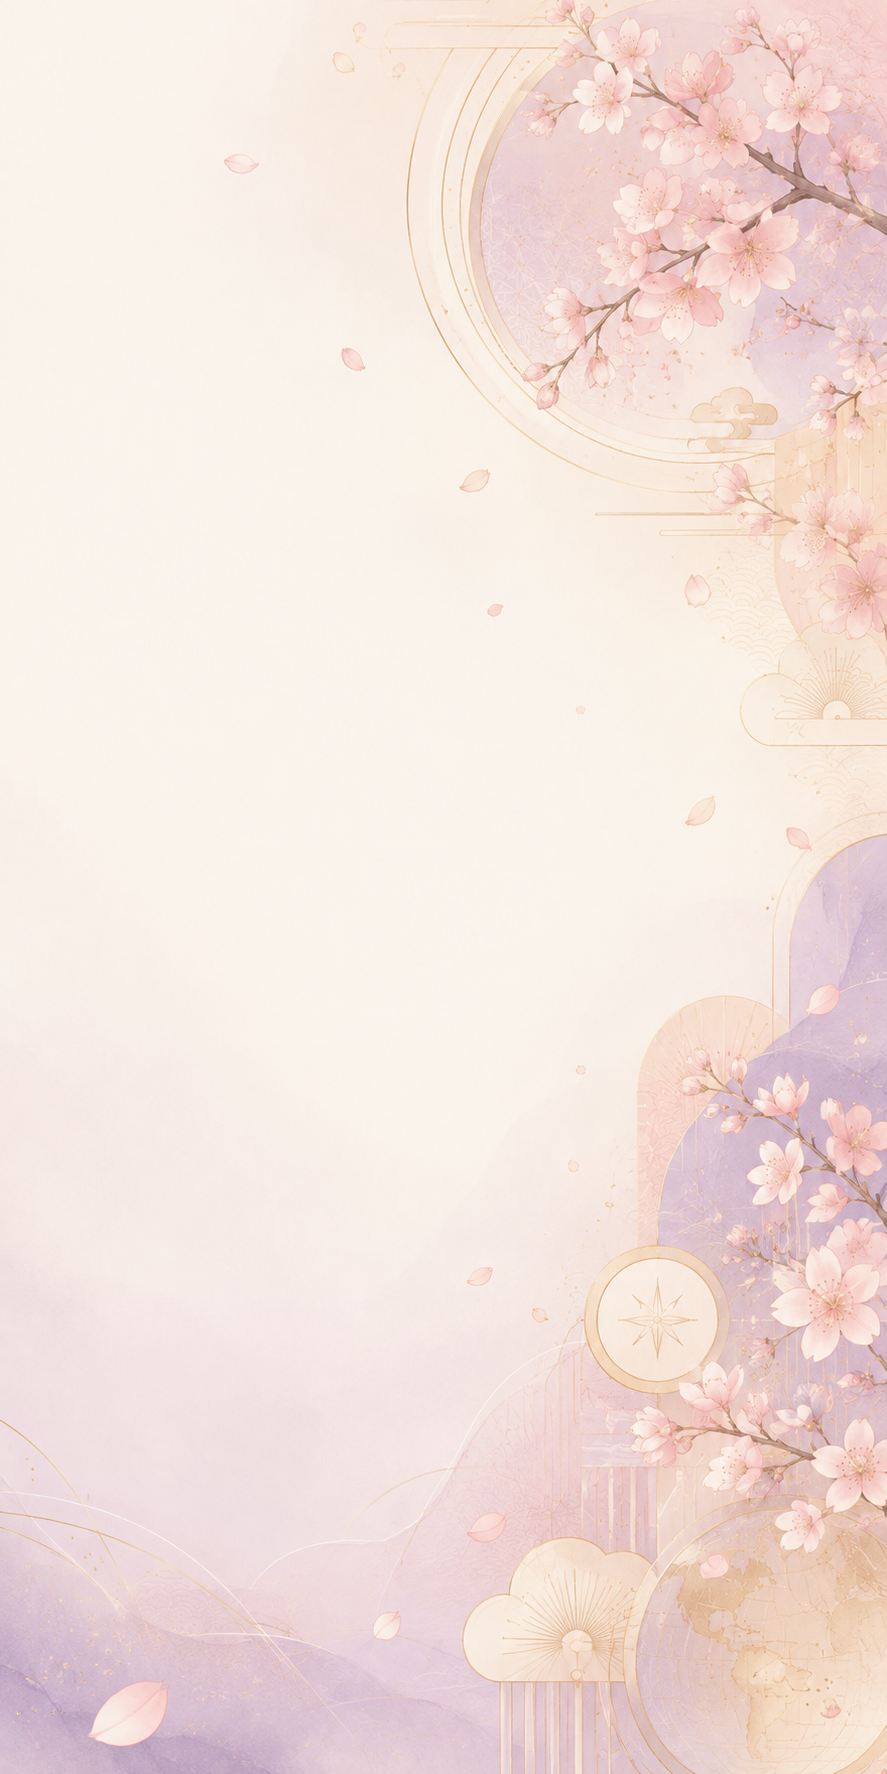
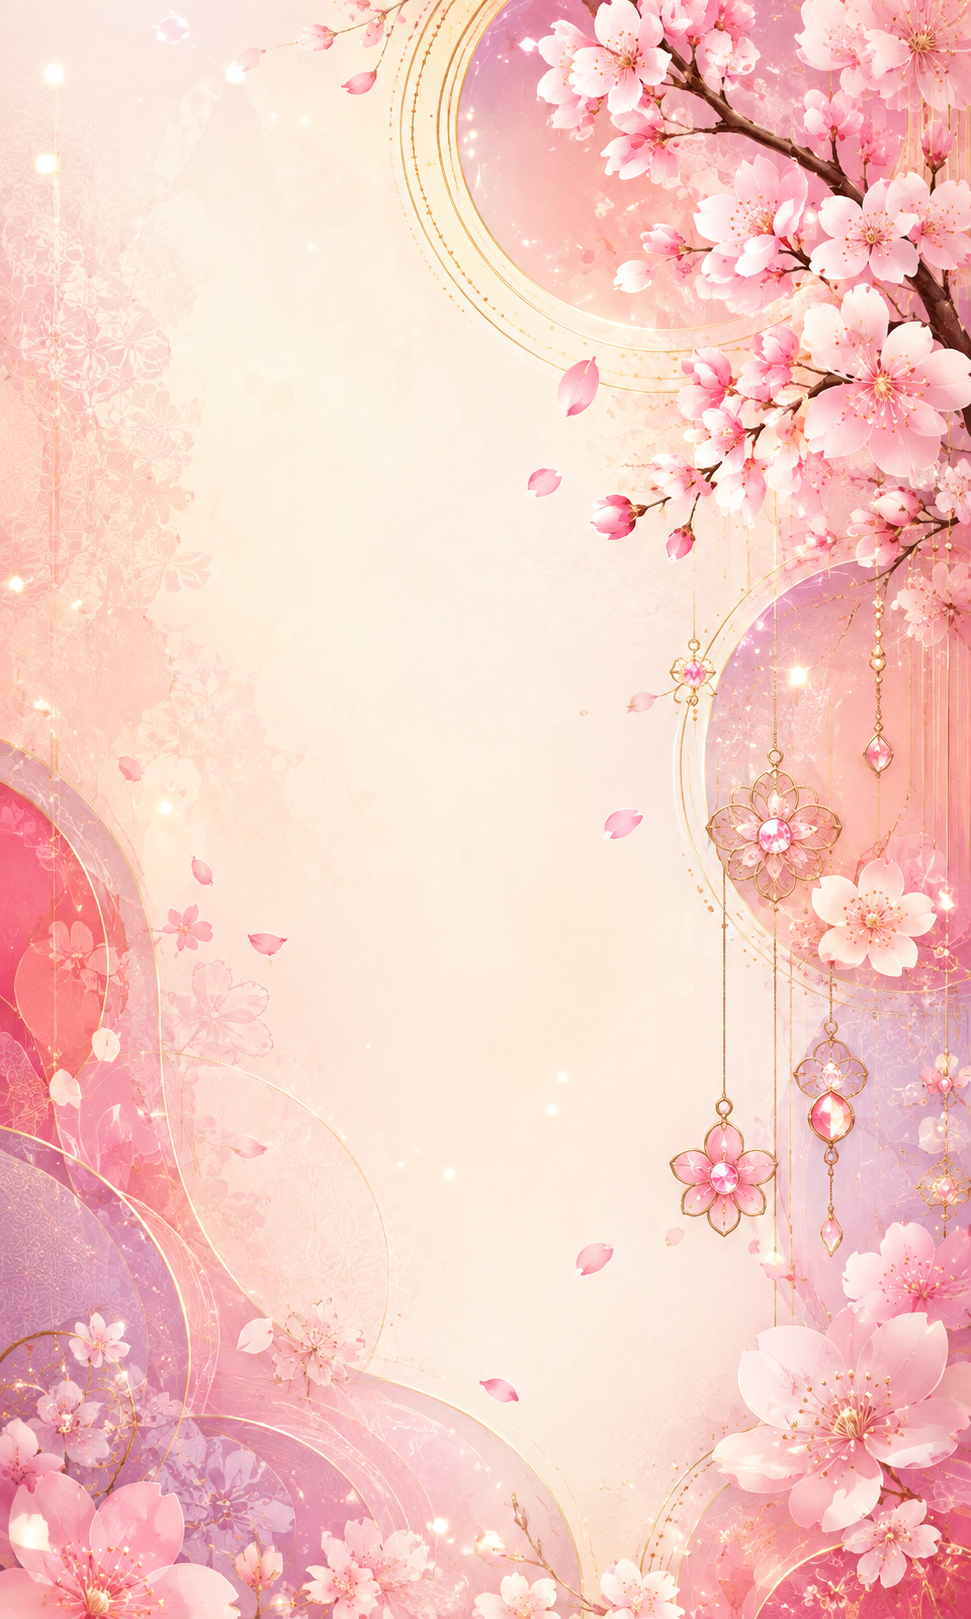
Refresh store card visuals and CTA accents

diff --git a/app/globals.css b/app/globals.css
@@ -730,11 +730,11 @@ main{padding-top:12px}
 .store-directory:not(.store-directory--compact) .store-card[class*="store-card--"]{position:relative;isolation:isolate;overflow:hidden;background:linear-gradient(150deg,#fffdf8,#f7f0f7)}
 .store-directory:not(.store-directory--compact) .store-card[class*="store-card--"]::before,.store-directory:not(.store-directory--compact) .store-card[class*="store-card--"]::after{content:"";position:absolute;inset:0;pointer-events:none}
 .store-directory:not(.store-directory--compact) .store-card[class*="store-card--"]::before{z-index:0;background-image:var(--store-card-art);background-position:var(--store-card-position);background-repeat:no-repeat;background-size:cover;opacity:var(--store-card-art-opacity)}
-.store-directory:not(.store-directory--compact) .store-card[class*="store-card--"]::after{z-index:1;background:linear-gradient(90deg,rgba(255,253,248,.9) 0%,rgba(255,252,247,.74) 54%,rgba(249,243,248,.5) 100%)}
+.store-directory:not(.store-directory--compact) .store-card[class*="store-card--"]::after{z-index:1;background:var(--store-card-overlay)}
 .store-directory:not(.store-directory--compact) .store-card[class*="store-card--"]>*{position:relative;z-index:2}
-.store-card--moon-doll{--store-card-art:url("/images/where-to-buy/moon-doll-card-bg.png");--store-card-position:65% center;--store-card-art-opacity:.68}
-.store-card--hanidoll{--store-card-art:url("/images/where-to-buy/hanidoll-card-bg.png");--store-card-position:68% center;--store-card-art-opacity:.62}
-.store-card--sexdollshop{--store-card-art:url("/images/where-to-buy/sexdollshop-card-bg.png");--store-card-position:70% center;--store-card-art-opacity:.7}
+.store-card--moon-doll{--store-card-art:url("/images/where-to-buy/moon-doll-card-bg.png");--store-card-position:62% center;--store-card-art-opacity:.8;--store-card-overlay:linear-gradient(90deg,rgba(255,253,248,.86) 0%,rgba(252,249,250,.66) 52%,rgba(238,235,253,.28) 100%);--store-icon-border:rgba(83,139,218,.58);--store-icon-bg:rgba(230,242,255,.74);--store-icon-glow:rgba(74,139,226,.26)}
+.store-card--hanidoll{--store-card-art:url("/images/where-to-buy/hanidoll-card-bg.png");--store-card-position:72% center;--store-card-art-opacity:.78;--store-card-overlay:linear-gradient(90deg,rgba(255,253,248,.87) 0%,rgba(255,247,250,.67) 52%,rgba(253,224,240,.3) 100%);--store-icon-border:rgba(205,91,151,.58);--store-icon-bg:rgba(255,230,243,.74);--store-icon-glow:rgba(211,70,146,.25)}
+.store-card--sexdollshop{--store-card-art:url("/images/where-to-buy/sexdollshop-card-bg.png");--store-card-position:68% center;--store-card-art-opacity:.82;--store-card-overlay:linear-gradient(90deg,rgba(255,253,248,.88) 0%,rgba(255,251,246,.68) 52%,rgba(226,245,239,.3) 100%);--store-icon-border:rgba(67,164,153,.56);--store-icon-bg:rgba(226,247,242,.76);--store-icon-glow:rgba(49,164,151,.24)}
 .store-directory:not(.store-directory--compact) .store-card:hover{transform:translateY(-2px);border-color:rgba(181,140,67,.62);box-shadow:0 22px 48px rgba(64,43,72,.15)}
 .store-directory:not(.store-directory--compact) .store-card h3{font-size:32px}
 .store-directory:not(.store-directory--compact) .store-card>p{font-size:16px;line-height:1.7}
@@ -747,7 +747,8 @@ main{padding-top:12px}
 .article-body .store-directory:not(.store-directory--compact) .store-card-actions .footer-featured-link--moon,.article-body .store-directory:not(.store-directory--compact) .store-card-actions .footer-featured-link--store{border-color:rgba(184,139,57,.76);box-shadow:inset 0 1px 0 rgba(255,255,255,.88),0 9px 24px rgba(116,80,66,.1)}
 .article-body .store-directory:not(.store-directory--compact) .store-card-actions .footer-featured-link--moon:hover,.article-body .store-directory:not(.store-directory--compact) .store-card-actions .footer-featured-link--store:hover{border-color:#b7893f;background:linear-gradient(135deg,#fffdf9,#ece2f1);box-shadow:inset 0 1px 0 rgba(255,255,255,.92),0 12px 28px rgba(112,77,64,.15),0 0 16px rgba(197,157,77,.1)}
 .article-body .store-directory:not(.store-directory--compact) .store-card-actions .footer-featured-icon{width:36px;height:36px}
-.article-body .store-directory:not(.store-directory--compact) .store-card-actions .footer-featured-icon--image{border:0;background:transparent}
+.article-body .store-directory:not(.store-directory--compact) .store-card-actions .footer-featured-icon--image{border:1px solid var(--store-icon-border);border-radius:11px;background:var(--store-icon-bg);box-shadow:inset 0 0 0 1px rgba(255,255,255,.72),0 0 14px var(--store-icon-glow);transition:border-color 180ms ease,box-shadow 180ms ease}
+.article-body .store-directory:not(.store-directory--compact) .store-card-actions .footer-featured-link:hover .footer-featured-icon--image{border-color:color-mix(in srgb,var(--store-icon-border) 82%,#fff 18%);box-shadow:inset 0 0 0 1px rgba(255,255,255,.82),0 0 19px var(--store-icon-glow)}
 .article-body .store-directory:not(.store-directory--compact) .store-card-actions .footer-featured-icon--image img{width:34px;height:34px;object-fit:contain}
 .article-body .store-directory:not(.store-directory--compact) .store-card-actions .footer-featured-copy b{color:#43304f;font-size:13px}
 .article-body .store-directory:not(.store-directory--compact) .store-card-actions .footer-featured-copy small{color:#6f6874;font-size:10px}
@@ -755,15 +756,13 @@ main{padding-top:12px}
 @media(max-width:700px){
   .store-directory:not(.store-directory--compact){gap:18px;margin-top:28px}
   .store-directory:not(.store-directory--compact) .store-card{min-height:0;gap:20px;padding:24px}
-  .store-directory:not(.store-directory--compact) .store-card[class*="store-card--"]{--store-card-art-opacity:.5}
-  .store-directory:not(.store-directory--compact) .store-card[class*="store-card--"]::after{background:linear-gradient(90deg,rgba(255,253,248,.93) 0%,rgba(255,252,247,.8) 58%,rgba(249,243,248,.6) 100%)}
-  .store-card--moon-doll{--store-card-position:72% center}
-  .store-card--hanidoll{--store-card-position:74% center}
-  .store-card--sexdollshop{--store-card-position:76% center}
+  .store-card--moon-doll{--store-card-position:67% center;--store-card-art-opacity:.72;--store-card-overlay:linear-gradient(90deg,rgba(255,253,248,.9) 0%,rgba(252,249,250,.74) 58%,rgba(238,235,253,.4) 100%)}
+  .store-card--hanidoll{--store-card-position:76% center;--store-card-art-opacity:.7;--store-card-overlay:linear-gradient(90deg,rgba(255,253,248,.91) 0%,rgba(255,247,250,.75) 58%,rgba(253,224,240,.42) 100%)}
+  .store-card--sexdollshop{--store-card-position:72% center;--store-card-art-opacity:.74;--store-card-overlay:linear-gradient(90deg,rgba(255,253,248,.92) 0%,rgba(255,251,246,.76) 58%,rgba(226,245,239,.42) 100%)}
   .store-directory:not(.store-directory--compact) .store-card h3{font-size:28px}
   .store-directory:not(.store-directory--compact) .store-card>p{font-size:15px}
 }
-@media(prefers-reduced-motion:reduce){.store-directory:not(.store-directory--compact) .store-card{transition:none}.store-directory:not(.store-directory--compact) .store-card:hover{transform:none}}
+@media(prefers-reduced-motion:reduce){.store-directory:not(.store-directory--compact) .store-card{transition:none}.store-directory:not(.store-directory--compact) .store-card:hover,.store-directory:not(.store-directory--compact) .store-card-actions .footer-featured-link:hover{transform:none}}
 
 /* Full-width homepage hero artwork. */
 .hero{
